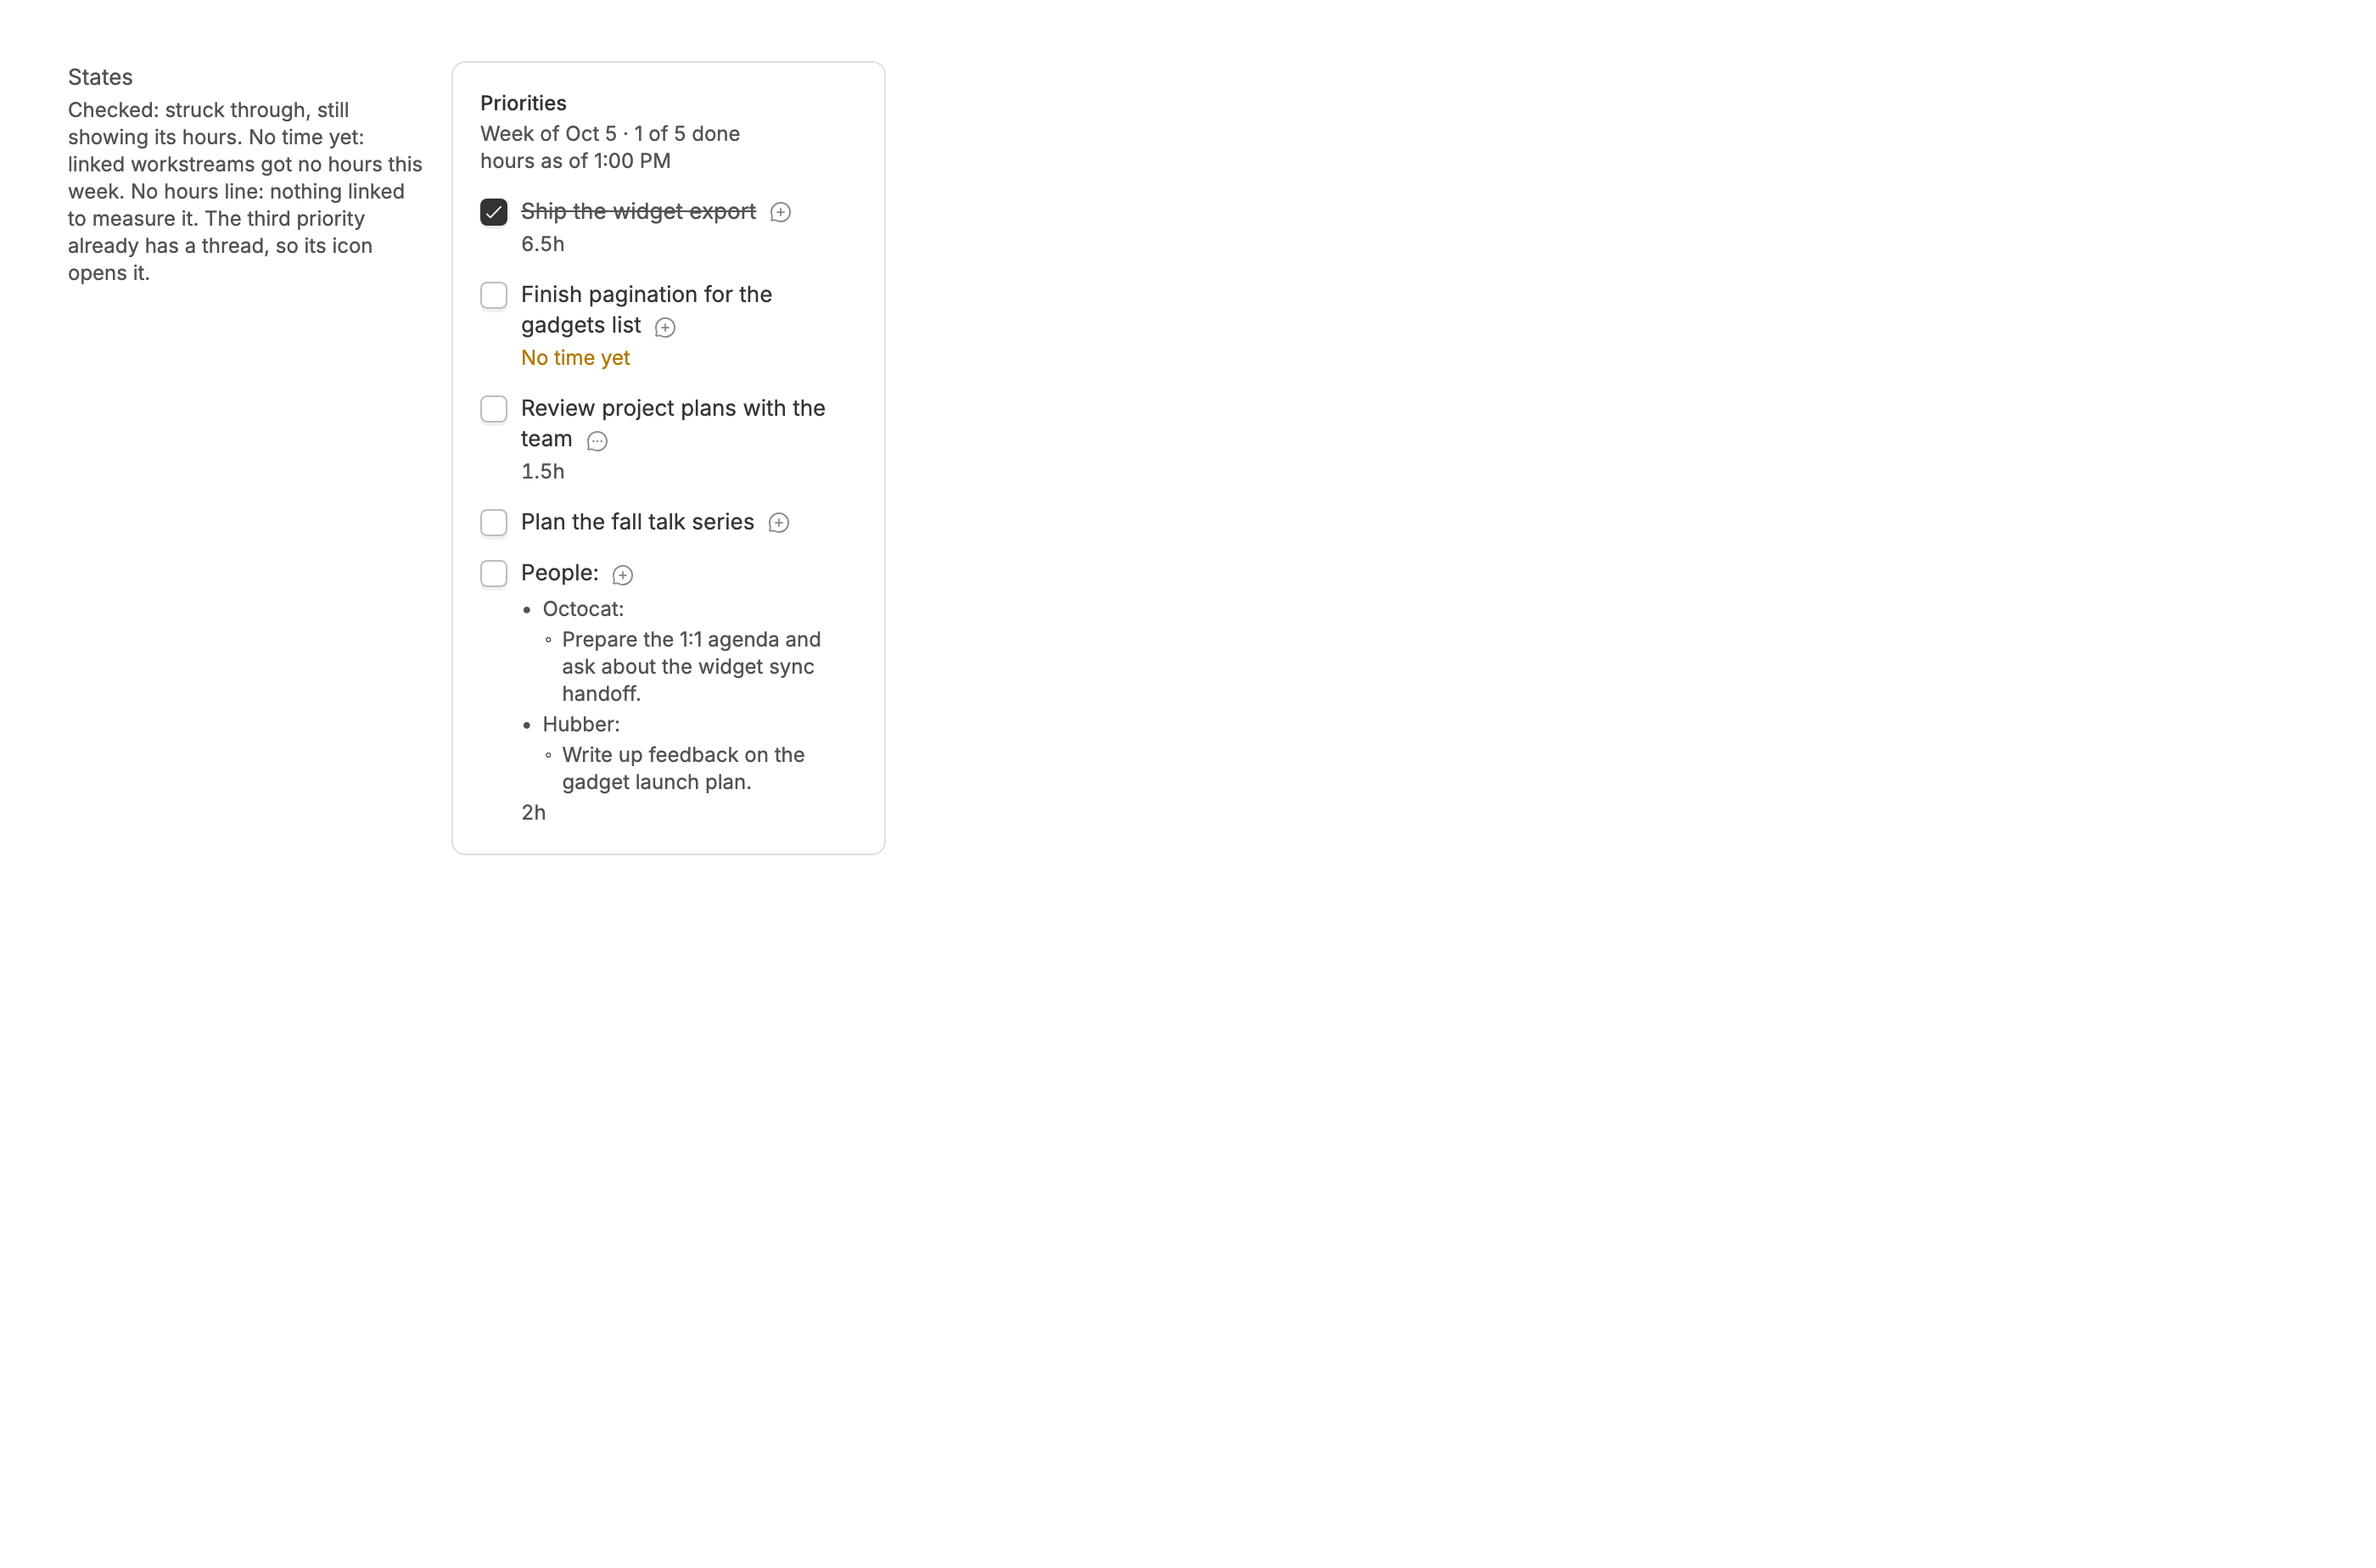
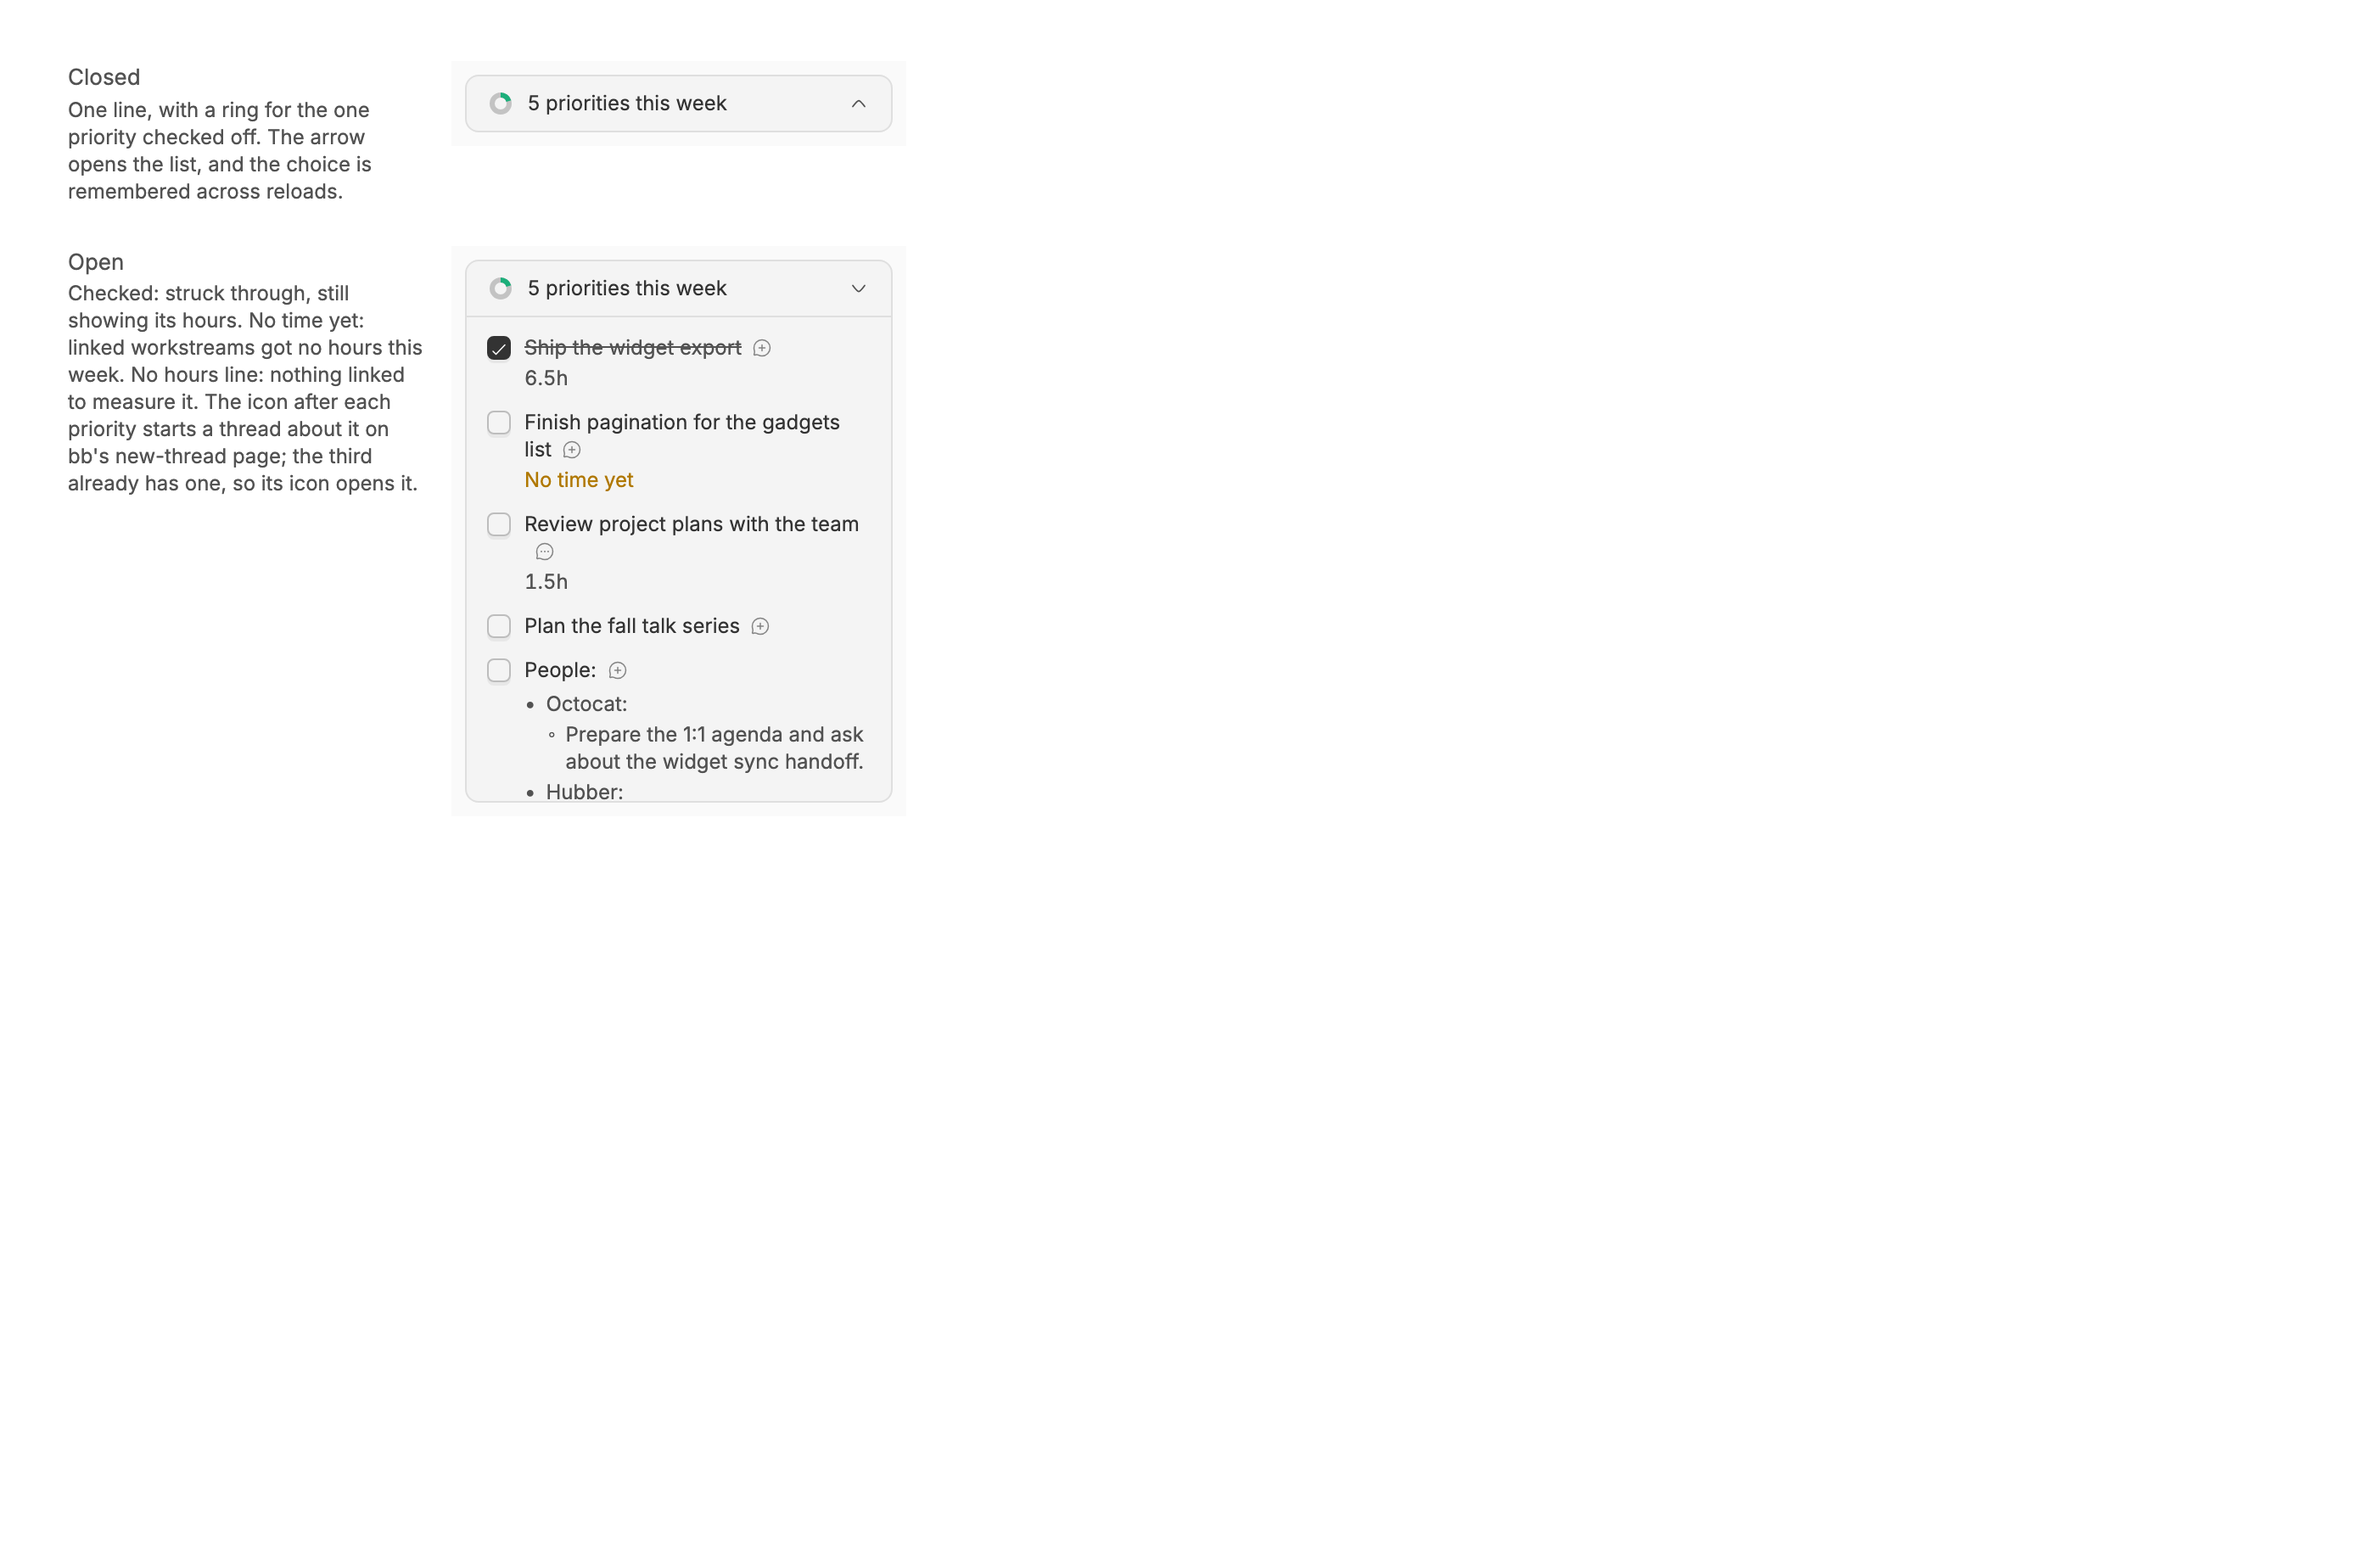
8c06bb7 Now: move the week's priorities into bb's sidebar
danielbachhuber/bb-plugins@8c06bb7408b659eade18617c2de5f868793de38f

Changed region(s): [[0.0311, 0.0308, 0.3729, 0.5244]]

diff --git a/now/README.md b/now/README.md
@@ -2,7 +2,7 @@
 
 # Now
 
-One list of what needs doing now, from Todoist and your Gmail inbox, with GitHub notifications gathered per pull request or issue, showing each pull request's reviewers, and Google Docs comments per document. Overdue tasks, and mail left in the inbox more than a day, are tinted red and say how late they are. A square per row above the list shows how Now splits into urgent (overdue tasks and Todoist's Inbox), unread email, today, your own items and email to you, requests of you, what can be archived, and what is minor, and pressing a run shows only its rows. Todoist descriptions render as Markdown, with open subtasks listed beneath. Complete, rename, describe, reschedule, postpone, reprioritize, move, or delete tasks, read an email in full beside the list, open an email or GitHub comment the snippet cut short in full, archive email or mark it read, answer calendar invitations, accept a new time a guest proposes for your event, reply on GitHub, merge your own pull requests, and start a thread from any row. Clicking the sync time shows the past hour's calls to Todoist, Gmail, Calendar, and GitHub, sync by sync. A column beside the list shows the week's priorities, written in by Weekly Review from your journal, with the hours each has had, and you check each one off there. Its icon in bb's navigation shows the urgent count in red, or the due-today count in amber.
+One list of what needs doing now, from Todoist and your Gmail inbox, with GitHub notifications gathered per pull request or issue, showing each pull request's reviewers, and Google Docs comments per document. Overdue tasks, and mail left in the inbox more than a day, are tinted red and say how late they are. A square per row above the list shows how Now splits into urgent (overdue tasks and Todoist's Inbox), unread email, today, your own items and email to you, requests of you, what can be archived, and what is minor, and pressing a run shows only its rows. Todoist descriptions render as Markdown, with open subtasks listed beneath. Complete, rename, describe, reschedule, postpone, reprioritize, move, or delete tasks, read an email in full beside the list, open an email or GitHub comment the snippet cut short in full, archive email or mark it read, answer calendar invitations, accept a new time a guest proposes for your event, reply on GitHub, merge your own pull requests, and start a thread from any row. Clicking the sync time shows the past hour's calls to Todoist, Gmail, Calendar, and GitHub, sync by sync. A box in bb's sidebar, on every page, counts the week's priorities with a ring for those done, and opens to the priorities Weekly Review writes in from your journal, to check off or start a thread from. Its icon in bb's navigation shows the urgent count in red, or the due-today count in amber.
 
 Source: [`bb-plugin-now`](https://github.com/danielbachhuber/bb-plugins/tree/main/bb-plugin-now)
 
@@ -72,12 +72,6 @@ On a task with no due date and a deadline that has passed, Postpone moves the de
 
 ### Default
 
-The column beside Now's list: one priority checked off, one with no time yet, one not linked to any workstream, and one with bullets nested two levels deep. The icon after each priority starts a thread about it, or opens the one already started.
+The box in bb's sidebar, on every page: closed, it counts the week's priorities beside a ring filled by those checked off; opened, it lists them.
 
 ![Default](priorities--default.png)
-
-### Layout
-
-Wide, the priorities sit to the right of the list, and dragging the column's left edge changes its width. Narrow, they move above it.
-
-![Layout](priorities--layout.png)

diff --git a/README.md b/README.md
@@ -20,7 +20,7 @@ small history while the visual history is still available.
 | [Impromptu UI](impromptu-ui/README.md) | Turns your agent's walls of text into interfaces you can click. | 75 stories |
 | [Issue Sweep](issue-sweep/README.md) | Open GitHub issues assigned to you, split into what needs you and everything else grouped by board status, with local notes, an On hold box that sinks an issue to the bottom, new comment counts, and the comments a click away. | 7 stories |
 | [Markdown Editor](markdown-editor/README.md) | Edit markdown files in the tab bb opens them in, preview the result, and save with Cmd+S without overwriting an agent's edits. | 7 stories |
-| [Now](now/README.md) | One list of what needs doing now, from Todoist and your Gmail inbox, with GitHub notifications gathered per pull request or issue, showing each pull request's reviewers, and Google Docs comments per document. | 12 stories |
+| [Now](now/README.md) | One list of what needs doing now, from Todoist and your Gmail inbox, with GitHub notifications gathered per pull request or issue, showing each pull request's reviewers, and Google Docs comments per document. | 11 stories |
 | [Plugin Shelf](plugin-shelf/README.md) | Lists the plugins in your bb-plugins checkout as published and current, published with commits not yet released (with those commits), or personal, with each published plugin's install count, on a My plugins page in bb's Plugins screen, with a button on each to start a thread on it and one to publish an update where one is due. | 4 stories |
 | [PR Sweep](pr-sweep/README.md) | Open pull requests you authored in one list, newest first with in-progress ones on top and those waiting on others closed to one line at the bottom, with local notes, new comment counts, review comments a click away, a Dismiss for failing checks you cannot fix, and where a stacked pull request sits in its stack. | 5 stories |
 | [Presentations](presentations/README.md) | Give a talk from a bb thread. | 7 stories |
